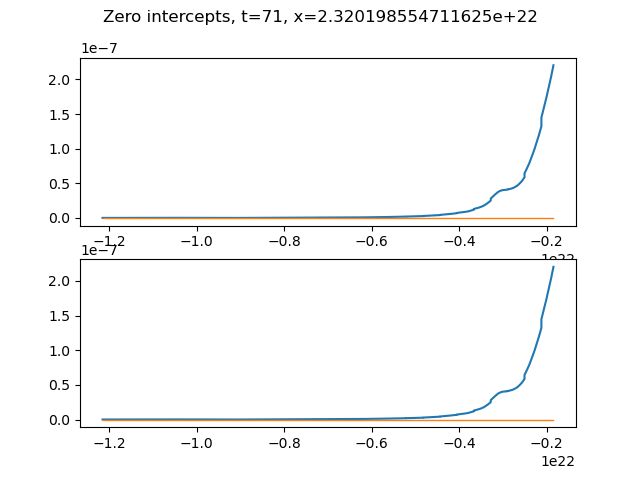
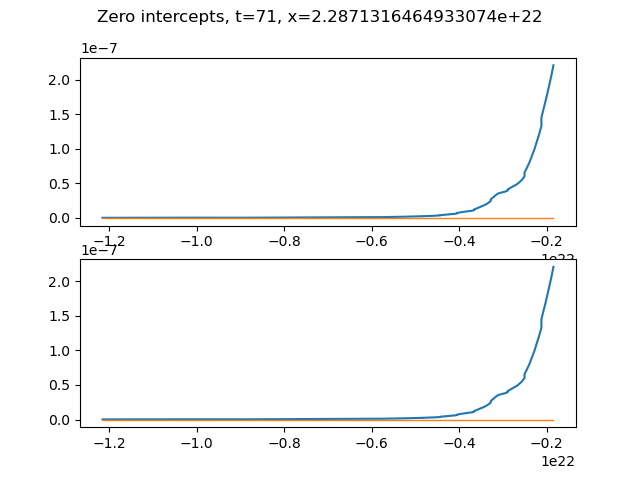
Bubble detection improved; imperfect but it works okay

diff --git a/BubbleVelocity_SignFlip.py b/BubbleVelocity_SignFlip.py
@@ -51,7 +51,8 @@ out = hdf5_parser.setup(filename)
 
 ds = yt.load(filename)
 ad = ds.all_data()
-x = est.closestNum(out['posXarray'], 2.32019*pow(10, 22)) #B
+# x = est.closestNum(out['posXarray'], 2.32019*pow(10, 22)) #B
+x = est.closestNum(out['posXarray'], 2.2871316*pow(10, 22)) #moved closer to middle
 ymax=float(max(ad['y']).value)
 ymin=float(min(ad['y']).value)
 ylim = -1.79040182984184e21
@@ -67,9 +68,14 @@ magDerivative = np.insert(magDerivative, 0, 0) #to match shape
 #Trim zeroes that are not bubbles
 zeroIndexTrimmed = []
 for index in zeroIndex:
-    if magDerivative[index] > 10**-9: zeroIndexTrimmed = np.append(zeroIndexTrimmed, index)
+    if magDerivative[index] > 10**-10: zeroIndexTrimmed = np.append(zeroIndexTrimmed, index)
 zeroIndexTrimmed = np.asarray(zeroIndexTrimmed, dtype=int)
+print("untrimmed: " + str(zeroIndex))
+print("derivatives: " + str(magDerivative[zeroIndex]))
+print("trimmed: " + str(zeroIndexTrimmed))
+print("derivatives: " + str(magDerivative[zeroIndexTrimmed]))
 
+#%%
 fig, ax = plt.subplots(2)
 ax[0].plot(ySlice, magSlice)
 ax[0].plot([max(ySlice), min(ySlice)], [0, 0], lw=1)
@@ -81,9 +87,12 @@ ax[1].plot([max(ySlice), min(ySlice)], [0, 0], lw=1)
 for y in ySlice[zeroIndexTrimmed]:
     ax[1].plot([y, y], [np.min(magSlice), np.max(magSlice)], lw=1) #lines [x1, x2] [y1, y2]
     ax[1].plot([y, y], [np.min(magSlice), np.max(magSlice)], lw=1) #prominence lines
-    
+
 #%%
 ### iterate
+untrimmed = []
+trimmed = []
+
 TFselect = np.logical_and((out['posXarray'] == x), (out['posYarray']<ylim), (out['posYarray']>-1.0*(10**22)))
 ySlice = out['posYarray'][TFselect]
 for t in range(65, 85):
@@ -97,9 +106,17 @@ for t in range(65, 85):
     
     zeroIndexTrimmed = []
     for index in zeroIndex:
-        if magDerivative[index] > 10**-9: zeroIndexTrimmed = np.append(zeroIndexTrimmed, index)
+        if magDerivative[index] > 5*(10**-11): zeroIndexTrimmed = np.append(zeroIndexTrimmed, index)
     zeroIndexTrimmed = np.asarray(zeroIndexTrimmed, dtype=int)
     
+    print("~~~ t=" + str(t) + " ~~~")
+    print("untrimmed: " + str(zeroIndex))
+    print("derivatives: " + str(magDerivative[zeroIndex]))
+    print("trimmed: " + str(zeroIndexTrimmed))
+    print("derivatives: " + str(magDerivative[zeroIndexTrimmed]))
+    untrimmed.append([zeroIndex, magDerivative[zeroIndex]])
+    trimmed.append([zeroIndexTrimmed, magDerivative[zeroIndexTrimmed]])
+
     fig, ax = plt.subplots(2)
     fig.suptitle('Zero intercepts, t='+ str(t) +', x='+str(x))
     ax[0].plot(ySlice, magSlice)
@@ -115,3 +132,80 @@ for t in range(65, 85):
     
     fig.savefig(pwd + "/bubble_velocity/col12_t" + str(t))
     plt.close()
+    
+#%%
+### YT plot position onto slice
+# select col 12
+bounds = {'xmin': 2.1*pow(10, 22), 'xmax': 2.5*pow(10, 22), 'ymin': float(min(ad['y']).value),'ymax': ylim}
+# ad = ds.all_data()
+dsSelect = ad.include_inside('x', bounds['xmin'], bounds['xmax'])
+dsSelect = dsSelect.include_inside('y', bounds['ymin'], bounds['ymax'])
+z=out['tempArray']
+lev = np.logspace(np.log10(z.min()), np.log10(z.max()), num=1000)
+slc = yt.SlicePlot(ds, 'z', 'temp',  data_source=dsSelect,
+                       center=( np.sum([bounds['xmin'], bounds['xmax']])/2, np.sum([bounds['ymin'], bounds['ymax']])/2, 0))
+slc.annotate_streamlines('magnetic_field_x','magnetic_field_y',density=6,plot_args={'linewidth':0.5,'color':'r'}) 
+# slc.annotate_title(timeStamp +" "+ field)
+slc.set_width(max([ abs(bounds['xmax']-bounds['xmin']), abs(bounds['ymax']-bounds['ymin']) ]))
+slc.set_zlim('temp', 1e2, 1e6)
+# ann_slc = plt.tricontourf(posXarray, posYarray, z, locator=ticker.LogLocator(), levels = lev)
+# plt.title("Temp (\N{DEGREE SIGN}K)")
+for y in ySlice[zeroIndexTrimmed]:
+    slc.annotate_line((x, bounds['ymin'], 0), (x, bounds['ymax'], 0), coord_system="data",  plot_args={"color": "red", "linewidth": 1})
+    slc.annotate_line((bounds['xmin'], y, 0), (bounds['xmax'], y, 0), coord_system="data",  plot_args={"color": "red", "linewidth": 1})
+slc.save(pwd + "/bubble_velocity/t=80")
+
+fig = slc.plots['temp'].figure
+# figure = fig.figure
+# axes = fig.axes
+# colorbar_axes = fig.cax
+
+# fig.show()
+# slc.display()
+
+#%%
+### iterate
+bounds = {'xmin': 2.1*pow(10, 22), 'xmax': 2.5*pow(10, 22), 'ymin': float(min(ad['y']).value),'ymax': ylim}
+
+z=out['tempArray']
+for t in range(79, 85):
+    #find bubble position
+    out = hdf5_parser.setup(filename)
+    magSlice = out['magXarray'][TFselect]
+    zeroIndex = est.findSignFlips(magSlice)
+    magDerivative = np.diff(magSlice, axis=0)
+    magDerivative = np.insert(magDerivative, 0, 0) #to match shape
+    
+    #plot in yt
+    filename = filedirectory + "/parkerCRs_hdf5_plt_cnt_00" + str(t)
+    ds = yt.load(filename)
+    ad = ds.all_data()
+    dsSelect = ad.include_inside('x', bounds['xmin'], bounds['xmax'])
+    dsSelect = dsSelect.include_inside('y', bounds['ymin'], bounds['ymax'])
+    lev = np.logspace(np.log10(z.min()), np.log10(z.max()), num=1000)
+    slc = yt.SlicePlot(ds, 'z', 'temp',  data_source=dsSelect,
+                           center=( np.sum([bounds['xmin'], bounds['xmax']])/2, np.sum([bounds['ymin'], bounds['ymax']])/2, 0))
+    slc.annotate_streamlines('magnetic_field_x','magnetic_field_y',density=6,plot_args={'linewidth':0.5,'color':'r'}) 
+    # slc.annotate_title(timeStamp +" "+ field)
+    slc.set_width(max([ abs(bounds['xmax']-bounds['xmin']), abs(bounds['ymax']-bounds['ymin']) ]))
+    slc.set_zlim('temp', 1e2, 1e6)
+    slc.annotate_title("Temp (\N{DEGREE SIGN}K) + bubble positions, t=" + str(t) + "x=" + str(x))
+
+    #plot bubble position
+    zeroIndexTrimmed = []
+    for index in zeroIndex:
+        if magDerivative[index] > 5*(10**-11): zeroIndexTrimmed = np.append(zeroIndexTrimmed, index)
+    zeroIndexTrimmed = np.asarray(zeroIndexTrimmed, dtype=int)
+    
+    for y in ySlice[zeroIndexTrimmed]:
+        slc.annotate_line((x, bounds['ymin'], 0), (x, bounds['ymax'], 0), coord_system="data",  plot_args={"color": "red", "linewidth": 1})
+        slc.annotate_line((bounds['xmin'], y, 0), (bounds['xmax'], y, 0), coord_system="data",  plot_args={"color": "red", "linewidth": 1})
+    slc.save(pwd + "/bubble_velocity/t=" + str(t))
+
+# fig = slc.plots['temp'].figure
+# figure = fig.figure
+# axes = fig.axes
+# colorbar_axes = fig.cax
+
+# fig.show()
+# slc.display()

diff --git a/BubbleVelocityInteractive.py b/BubbleVelocityInteractive.py
@@ -128,6 +128,7 @@ for t in range(1, 10):
     slc.annotate_marker((x, (-2-0.5*t)*(10**21), 0), coord_system="data", plot_args={"color": "red"})
     slc.annotate_text((textx, (-2-0.5*t)*(10**21), 0), str(x), coord_system="data", text_args={"color": "red"})
     x = x + dx
+slc.save(pwd + "/bubble_velocity/line_annotations")
 slc.display()
 
 #%%
